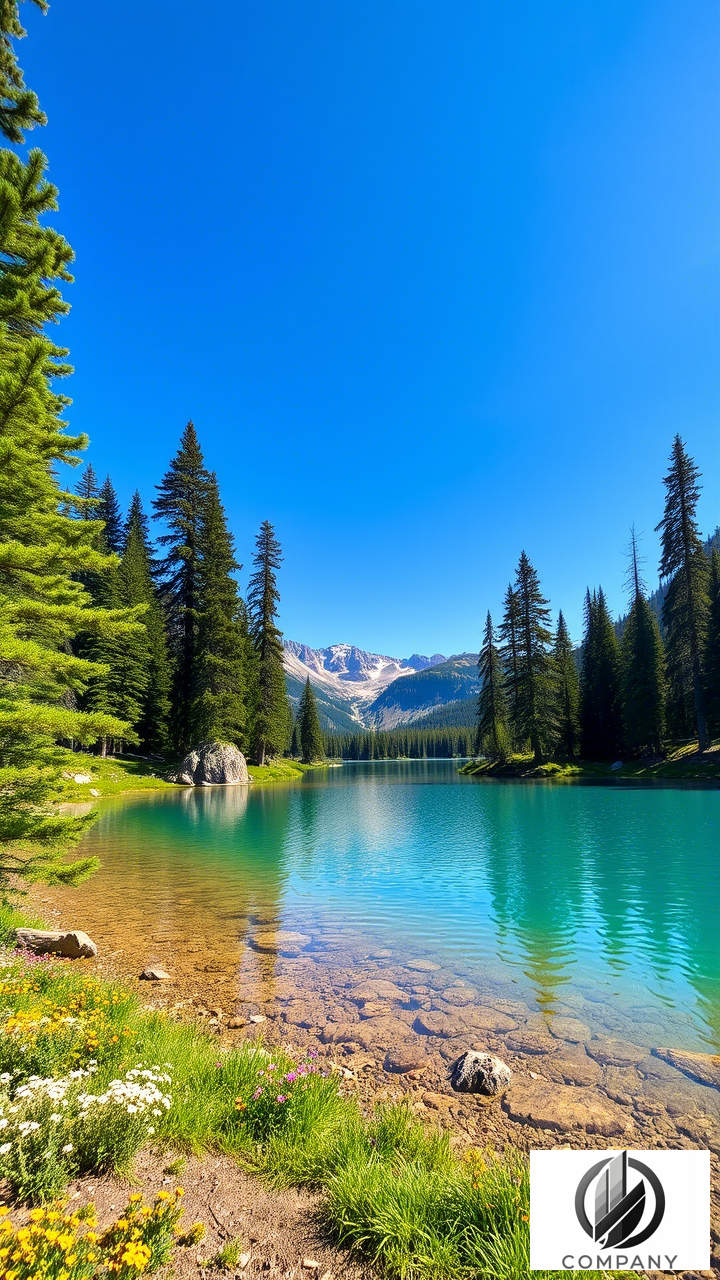
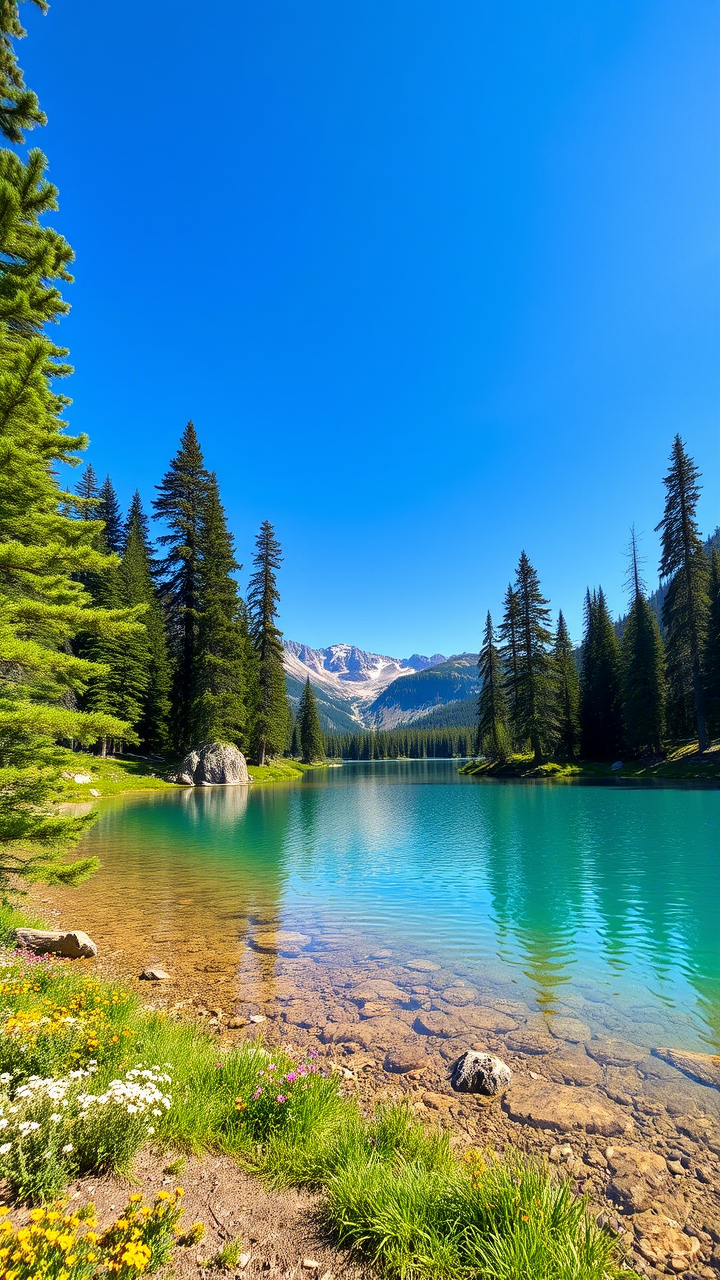
.

Changed region(s): [[0.7333, 0.875, 1.0, 1.0]]

diff --git a/templates/venues/venue_detail.html b/templates/venues/venue_detail.html
@@ -14,10 +14,24 @@
     <div class="row">
         <!-- Блок с фото и краткой информацией -->
         <div class="col-md-8">
-            <!-- Главное фото -->
-            {% if venue.images %}
-                <div class="mb-4">
-                    <img src="{{ venue.images.url }}" class="img-fluid rounded" alt="{{ venue.title }}">
+            <!-- Галерея фотографий -->
+            {% if venue.images.all %}
+                <div id="carouselExampleIndicators" class="carousel slide mb-4" data-bs-ride="carousel">
+                    <div class="carousel-inner">
+                        {% for image in venue.images.all %}
+                        <div class="carousel-item {% if forloop.first %}active{% endif %}">
+                            <img src="{{ image.image.url }}" class="d-block w-100" alt="{{ image.alt_text|default:venue.title }}">
+                        </div>
+                        {% endfor %}
+                    </div>
+                    <button class="carousel-control-prev" type="button" data-bs-target="#carouselExampleIndicators" data-bs-slide="prev">
+                        <span class="carousel-control-prev-icon" aria-hidden="true"></span>
+                        <span class="visually-hidden">Предыдущий</span>
+                    </button>
+                    <button class="carousel-control-next" type="button" data-bs-target="#carouselExampleIndicators" data-bs-slide="next">
+                        <span class="carousel-control-next-icon" aria-hidden="true"></span>
+                        <span class="visually-hidden">Следующий</span>
+                    </button>
                 </div>
             {% endif %}
             

diff --git a/venues/models.py b/venues/models.py
@@ -67,6 +67,32 @@ class VenueAmenity(models.Model):
         verbose_name_plural = "Удобства"
 
 
+class VenueImage(models.Model):
+    """Модель для хранения фотографий площадки."""
+
+    venue = models.ForeignKey(
+        'Venue',
+        on_delete=models.CASCADE,
+        related_name='images',
+        verbose_name="Площадка"
+    )
+    image = models.ImageField(
+        upload_to="venue_images/",
+        verbose_name="Фото"
+    )
+    alt_text = models.CharField(
+        max_length=255,
+        blank=True,
+        verbose_name="Альтернативный текст"
+    )
+
+    def __str__(self):
+        return f"Фото для {self.venue.title}"
+
+    class Meta:
+        verbose_name = "Фото площадки"
+        verbose_name_plural = "Фото площадок"
+
 class Venue(VideoWatermarkMixin, models.Model):
     """Модель площадки для проведения мероприятий."""
 
@@ -175,10 +201,6 @@ class Venue(VideoWatermarkMixin, models.Model):
         verbose_name="Подходит для формата",
         help_text="Выберите форматы: тренинг, мастер-класс и т.д.",
     )
-
-    images = models.ImageField(
-        upload_to="venue_images/", blank=True, verbose_name="Главное фото", null=True
-    )
     video = models.FileField(
         upload_to="venue_videos/",
         blank=True,
@@ -211,20 +233,7 @@ class Venue(VideoWatermarkMixin, models.Model):
 
     def save(self, *args, **kwargs):
         if not self.slug:
-
             self.slug = slugify(self.title)
-
-        # Обработка водяного знака для изображения
-        if self.images:
-            from django.conf import settings
-            from core.utils import add_watermark_to_image
-
-            # Путь к логотипу для водяного знака
-            watermark_path = os.path.join(settings.MEDIA_ROOT, "watermark.png")
-
-            if os.path.exists(watermark_path):
-                image_path = self.images.path
-                add_watermark_to_image(image_path, watermark_path, image_path)
 
         super().save(*args, **kwargs)
 

diff --git a/venues/admin.py b/venues/admin.py
@@ -1,4 +1,6 @@
 from django.contrib import admin
+from django.utils.html import format_html
+from django.core.exceptions import ValidationError
 from .models import (
     VenueType,
     VenueEquipment,
@@ -6,6 +8,7 @@ from .models import (
     Venue,
     BookingRequest,
     VenueFormat,
+    VenueImage,
 )
 from .forms import VenueForm
 
@@ -30,6 +33,18 @@ class VenueFormatAdmin(admin.ModelAdmin):
     list_display = ("name",)
 
 
+class VenueImageInline(admin.TabularInline):
+    model = VenueImage
+    extra = 1
+    fields = ('image', 'alt_text', 'image_preview')
+    readonly_fields = ('image_preview',)
+
+    def image_preview(self, obj):
+        if obj.image:
+            return format_html('<img src="{}" style="max-height: 100px; max-width: 100px;" />', obj.image.url)
+        return ""
+    image_preview.short_description = "Превью"
+
 @admin.register(Venue)
 class VenueAdmin(admin.ModelAdmin):
     form = VenueForm
@@ -47,9 +62,7 @@ class VenueAdmin(admin.ModelAdmin):
         "equipment",
         "amenities",
     )
-
-    class Media:
-        js = ("/static/js/map_admin.js", "/static/js/venue_admin.js")
+    inlines = [VenueImageInline]
 
     def get_form(self, request, obj=None, **kwargs):
         form = super().get_form(request, obj, **kwargs)
@@ -71,6 +84,28 @@ class VenueAdmin(admin.ModelAdmin):
             )
         return form
 
+    def save_formset(self, request, form, formset, change):
+        super().save_formset(request, form, formset, change)
+        if formset.model == VenueImage:
+            venue = form.instance
+            tariff = venue.tariff
+            limits = venue.TARIFF_LIMITS.get(tariff, {})
+            max_photos = limits.get("max_photos", 1)
+
+            # Проверяем количество фотографий
+            if VenueImage.objects.filter(venue=venue).count() > max_photos:
+                raise ValidationError(
+                    f"Для тарифа {venue.get_tariff_display()} можно загрузить не более {max_photos} фотографий."
+                )
+
+    class Media:
+        js = ("/static/js/map_admin.js", "/static/js/venue_admin.js")
+
+
[email redacted](VenueImage)
+class VenueImageAdmin(admin.ModelAdmin):
+    list_display = ("venue", "alt_text")
+    list_filter = ("venue",)
 
 @admin.register(BookingRequest)
 class BookingRequestAdmin(admin.ModelAdmin):

diff --git a/venues/migrations/0013_remove_venue_images_venueimage.py b/venues/migrations/0013_remove_venue_images_venueimage.py
@@ -1,0 +1,31 @@
+# Generated by Django 6.0.3 on 2026-05-04 15:35
+
+import django.db.models.deletion
+from django.db import migrations, models
+
+
+class Migration(migrations.Migration):
+
+    dependencies = [
+        ('venues', '0012_alter_venue_tariff'),
+    ]
+
+    operations = [
+        migrations.RemoveField(
+            model_name='venue',
+            name='images',
+        ),
+        migrations.CreateModel(
+            name='VenueImage',
+            fields=[
+                ('id', models.BigAutoField(auto_created=True, primary_key=True, serialize=False, verbose_name='ID')),
+                ('image', models.ImageField(upload_to='venue_images/', verbose_name='Фото')),
+                ('alt_text', models.CharField(blank=True, max_length=255, verbose_name='Альтернативный текст')),
+                ('venue', models.ForeignKey(on_delete=django.db.models.deletion.CASCADE, related_name='images', to='venues.venue', verbose_name='Площадка')),
+            ],
+            options={
+                'verbose_name': 'Фото площадки',
+                'verbose_name_plural': 'Фото площадок',
+            },
+        ),
+    ]

diff --git a/venues/forms.py b/venues/forms.py
@@ -1,7 +1,7 @@
 from django import forms
 from django.core.exceptions import ValidationError
 from django.utils.translation import gettext_lazy as _
-from .models import Venue, BookingRequest
+from .models import Venue, BookingRequest, VenueImage
 
 
 class VenueForm(forms.ModelForm):
@@ -60,20 +60,10 @@ class VenueForm(forms.ModelForm):
     def clean(self):
         cleaned_data = super().clean()
         tariff = cleaned_data.get("tariff")
-        images = cleaned_data.get("images")
         video = cleaned_data.get("video")
 
         if tariff:
             limits = Venue.TARIFF_LIMITS.get(tariff, {})
-
-            # Проверка количества фотографий
-            max_photos = limits.get("max_photos", 1)
-            if images and max_photos < 1:
-                tariff_name = dict(Venue.TARIFF_CHOICES).get(tariff, str(tariff))
-                raise ValidationError(
-                    _("Для тарифа %(tariff)s загрузка фотографий не разрешена.")
-                    % {"tariff": tariff_name}
-                )
 
             # Проверка возможности загрузки видео
             has_video = limits.get("has_video", False)